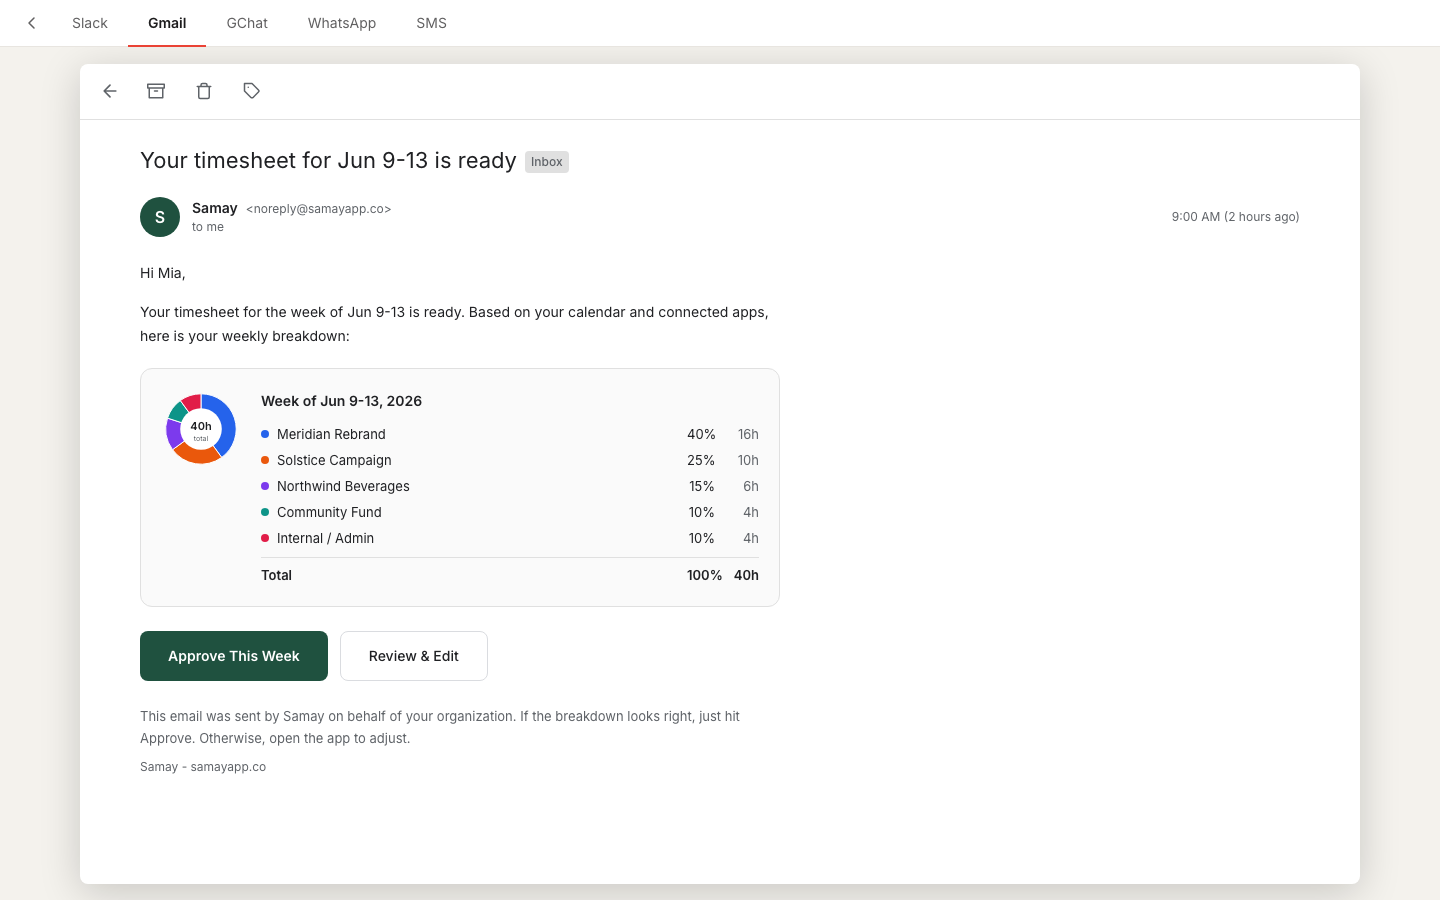
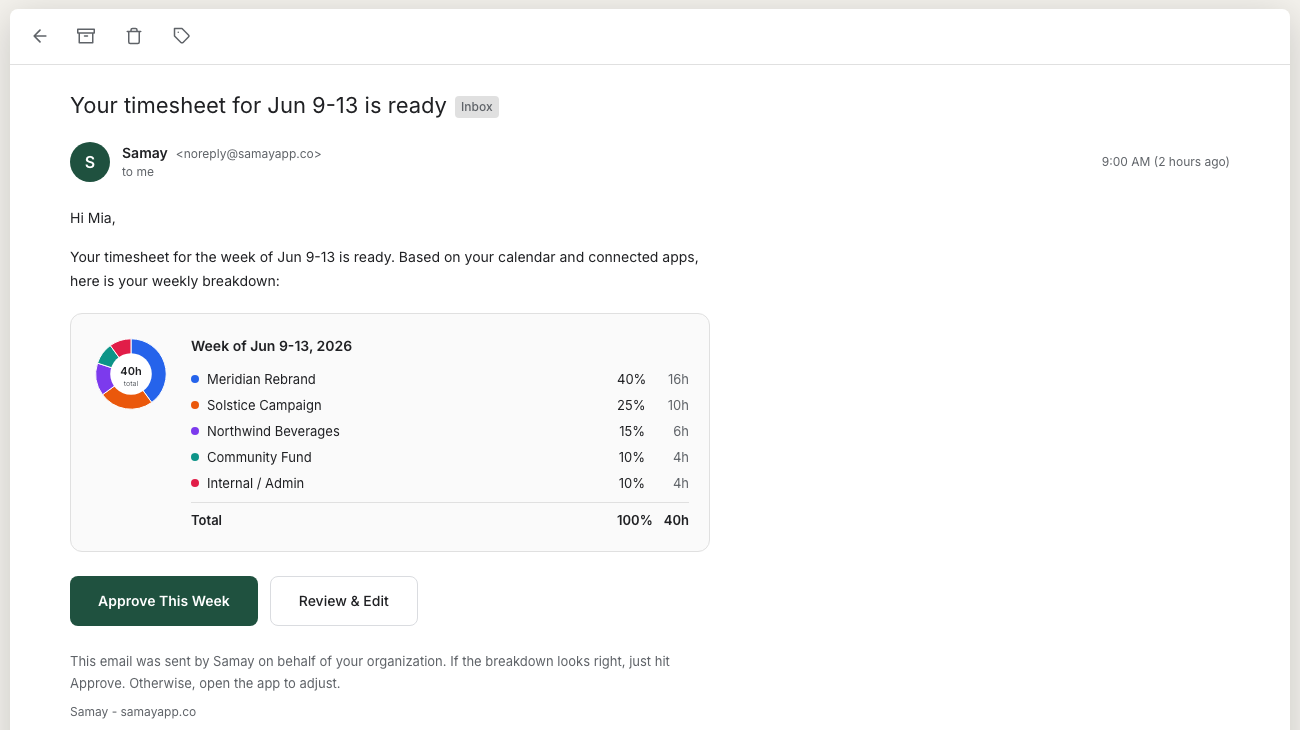
Crop Gmail screenshot and add mobile voice/filed slides to carousel
- Crop Gmail image to just the email container (removed channel tab bar)
- Add mobile voice mode screenshot ("Samay is listening...")
- Add mobile filed confirmation screenshot (pie chart with checkmark)
- Mobile slides render with object-contain for proper aspect ratio

Changed region(s): [[0.0, 0.0, 1.0, 1.0], [0.4615, 0.4822, 0.5538, 0.663], [0.4615, 0.6932, 0.5231, 0.7233]]

diff --git a/src/components/NotificationDemo.tsx b/src/components/NotificationDemo.tsx
@@ -6,8 +6,10 @@ import { motion, AnimatePresence, useReducedMotion } from 'framer-motion'
  *   1. Slack notification with drafted timesheet
  *   2. Filed in Slack
  *   3. Gmail notification
- *   4. Web app with pre-filled timesheet
- *   5. Web app filed state
+ *   4. Mobile voice input
+ *   5. Mobile filed confirmation
+ *   6. Web app with pre-filled timesheet
+ *   7. Web app filed state
  */
 
 const SLIDES = [
@@ -22,6 +24,16 @@ const SLIDES = [
   {
     image: '/images/hero-gmail-notification.png',
     label: 'Or approve straight from Gmail. One click, same result.',
+  },
+  {
+    image: '/images/hero-mobile-voice.png',
+    label: 'Just say what you worked on. Samay does the rest.',
+    mobile: true,
+  },
+  {
+    image: '/images/hero-mobile-filed.png',
+    label: 'Confirmed on your phone. Your week, filed in seconds.',
+    mobile: true,
   },
   {
     image: '/images/hero-web-filled.png',
@@ -63,7 +75,7 @@ export default function NotificationDemo() {
             animate={{ opacity: 1 }}
             exit={{ opacity: 0 }}
             transition={{ duration: reduce ? 0.15 : 0.9, ease: [0.4, 0, 0.2, 1] }}
-            className="absolute inset-0 w-full h-full object-cover object-top"
+            className={`absolute inset-0 w-full h-full ${SLIDES[current].mobile ? 'object-contain' : 'object-cover object-top'}`}
           />
         </AnimatePresence>
       </div>
